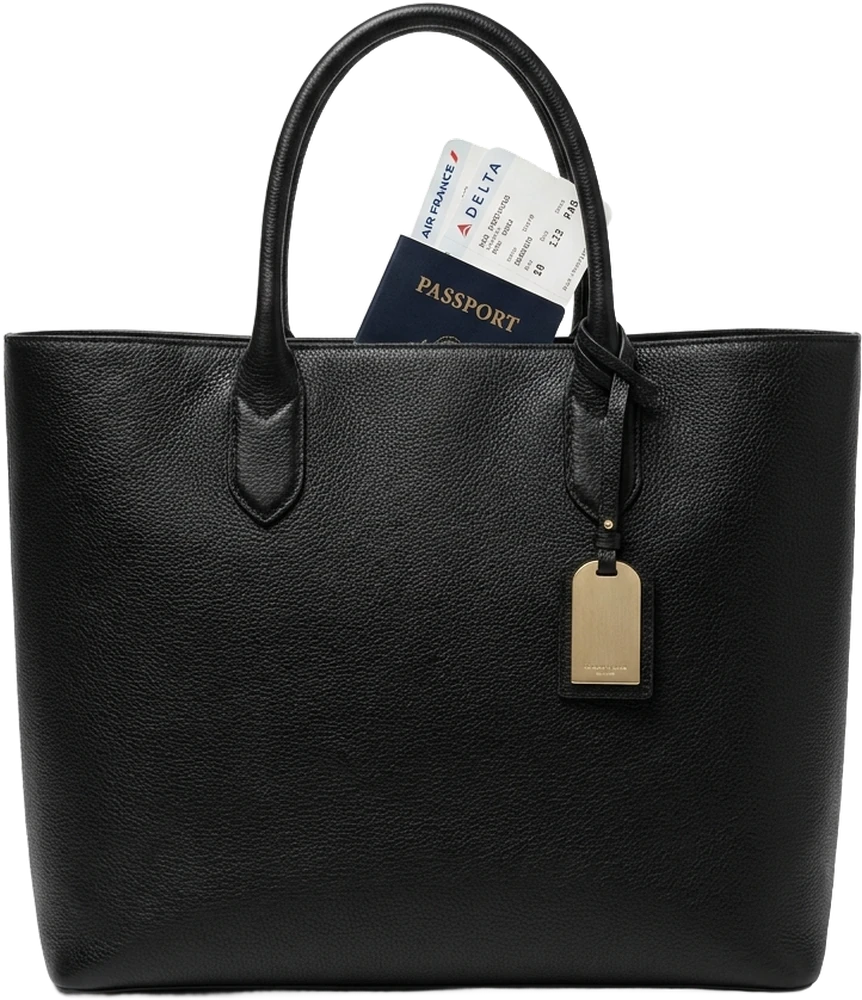
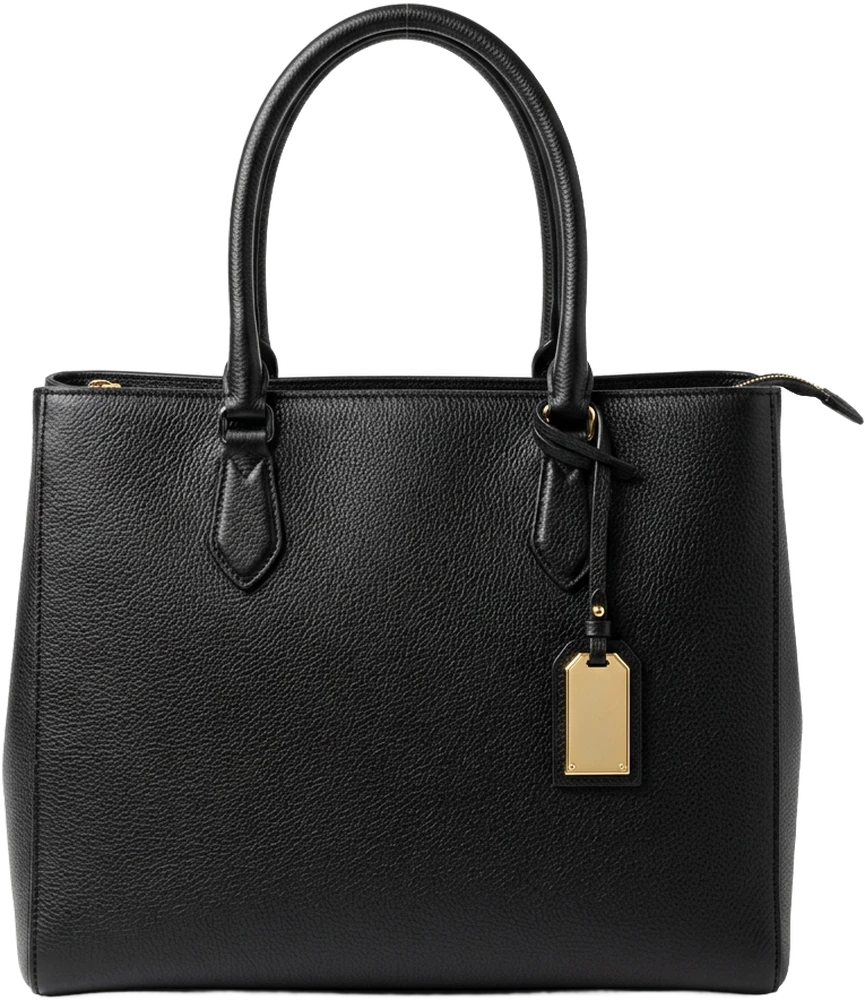
Tote prop without passport and boarding passes

diff --git a/pink/index.html b/pink/index.html
@@ -347,7 +347,7 @@ p{margin:0}
       <div class="stat r"><div class="n">3M+</div><div class="l">organic views on a two-part Instagram series</div></div>
       <div class="stat r"><div class="n">70K+</div><div class="l">shares, with no paid promotion</div></div>
     </div>
-    <img class="bag-img r" src="../assets/prop-tote.webp" alt="" aria-hidden="true" width="862" height="1000">
+    <img class="bag-img r" src="../assets/prop-tote.webp" alt="" aria-hidden="true" width="865" height="1000">
     <div class="stats-col right">
       <div class="stat r"><div class="n">250K+</div><div class="l">interactions across the series</div></div>
       <div class="stat r"><div class="n">65K+</div><div class="l">saves (the long-term value signal)</div></div>

diff --git a/light/index.html b/light/index.html
@@ -465,7 +465,7 @@ p{margin:0}
           <p class="sub">The skills I bring to every team, from a Thai tavern's Instagram to an energy company's trade-show floor.</p>
         </div>
         <div class="tote-stage">
-          <img class="tote" src="../assets/prop-tote.webp" alt="" aria-hidden="true" width="862" height="1000">
+          <img class="tote" src="../assets/prop-tote.webp" alt="" aria-hidden="true" width="865" height="1000">
           <span class="tag t1"><i></i>Social media strategy</span>
           <span class="tag t2 orchid"><i></i>Short-form video &amp; hooks</span>
           <span class="tag t3"><i></i>B2B content &amp; brochures</span>

diff --git a/index.html b/index.html
@@ -465,7 +465,7 @@ p{margin:0}
           <p class="sub">The skills I bring to every team, from a Thai tavern's Instagram to an energy company's trade-show floor.</p>
         </div>
         <div class="tote-stage">
-          <img class="tote" src="assets/prop-tote.webp" alt="" aria-hidden="true" width="862" height="1000">
+          <img class="tote" src="assets/prop-tote.webp" alt="" aria-hidden="true" width="865" height="1000">
           <span class="tag t1"><i></i>Social media strategy</span>
           <span class="tag t2 orchid"><i></i>Short-form video &amp; hooks</span>
           <span class="tag t3"><i></i>B2B content &amp; brochures</span>
